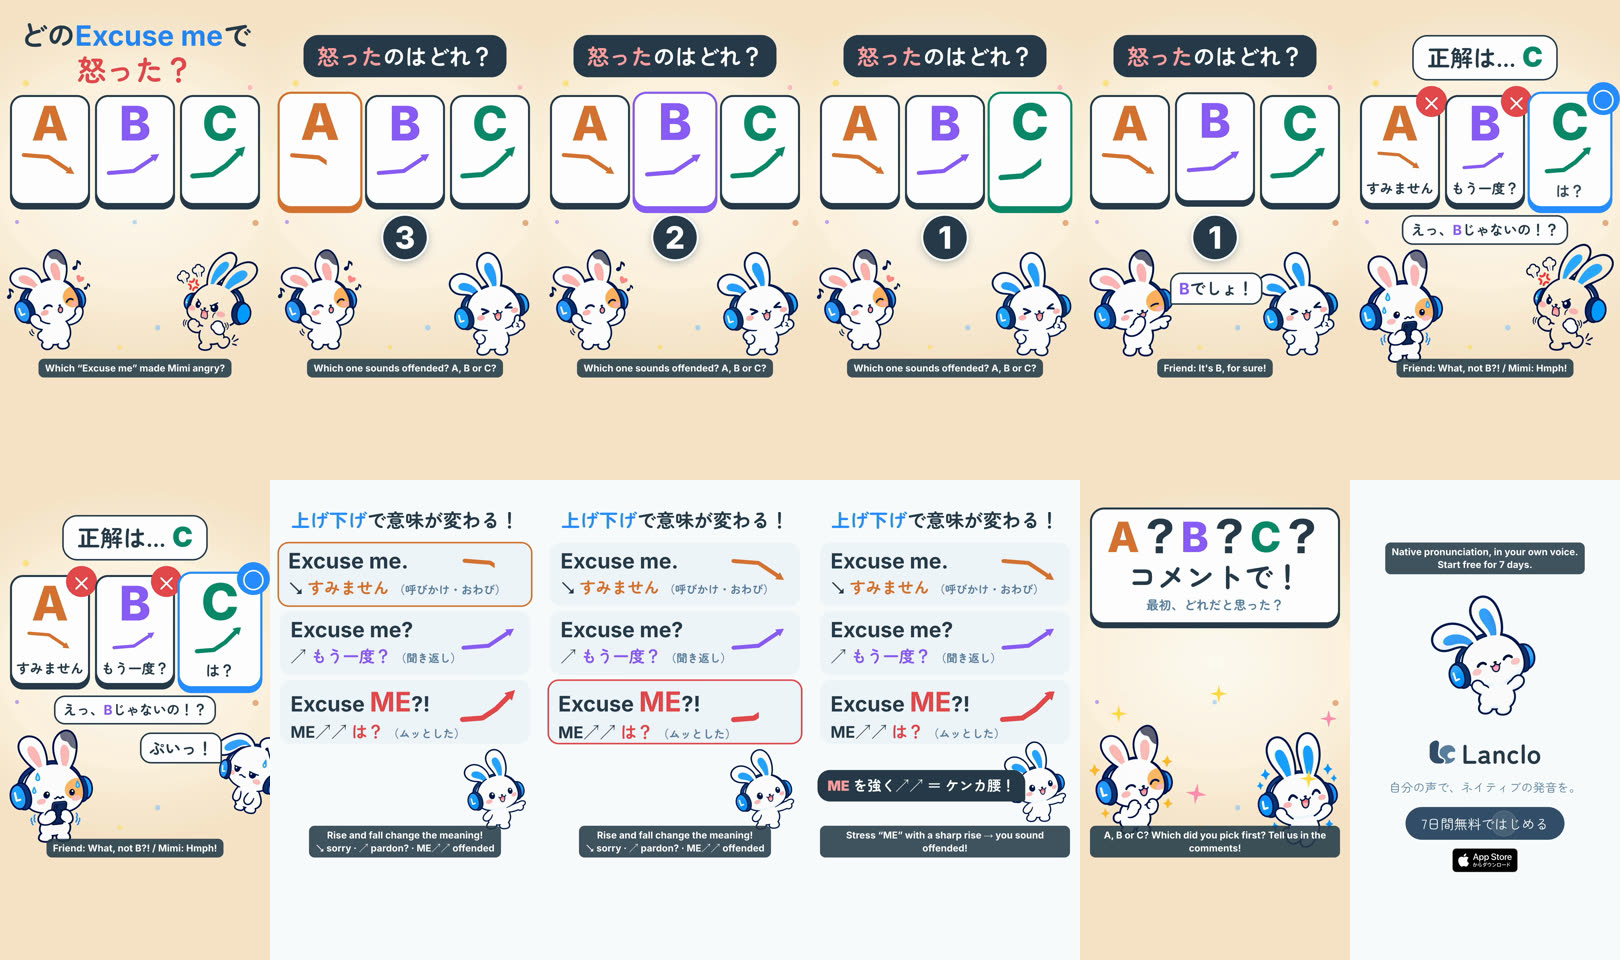
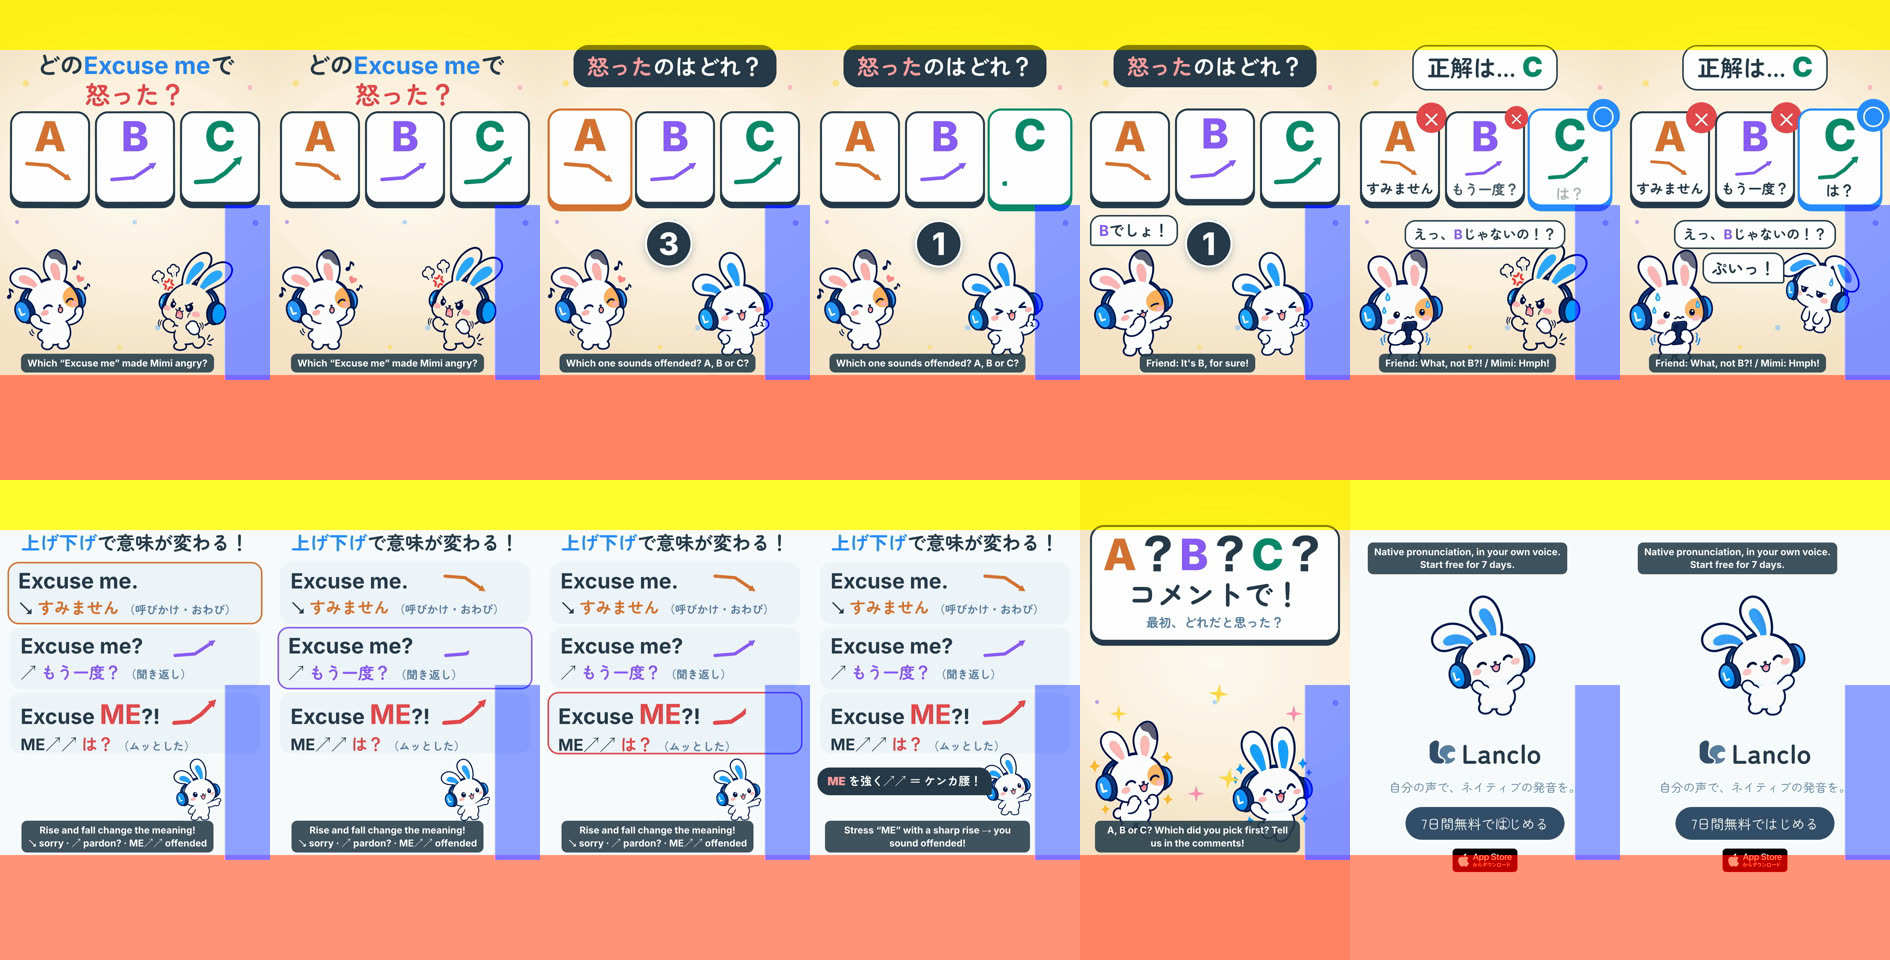
062 draft v2: keep text, bubbles and faces out of the platform safe zones

diff --git a/films/mimi-hear-excuse/source/hf/index.html b/films/mimi-hear-excuse/source/hf/index.html
@@ -15,55 +15,55 @@
                 background: radial-gradient(ellipse 900px 700px at 50% 38%, #fffaf2 0%, #fdf1df 60%, #f7e4c8 100%); }
       #studio i { position: absolute; border-radius: 50%; opacity: 0.55; }
       /* hook */
-      #hook { position: absolute; left: 30px; right: 30px; top: 70px; text-align: center; font-size: 112px; font-weight: 700; line-height: 1.15; color: #273b4b; }
+      #hook { position: absolute; left: 30px; right: 30px; top: 200px; text-align: center; font-size: 96px; font-weight: 700; line-height: 1.15; color: #273b4b; }
       #hook .en { font-family: "Helvetica Neue", Arial, sans-serif; color: #2886f3; }
-            #hook .s { display: block; font-size: 116px; color: #e5484d; }
-      #q { position: absolute; left: 0; right: 0; top: 140px; display: flex; justify-content: center; }
+            #hook .s { display: block; font-size: 100px; color: #e5484d; }
+      #q { position: absolute; left: 0; right: 0; top: 180px; display: flex; justify-content: center; }
       #q span { background: #273b4b; color: #ffffff; font-size: 88px; font-weight: 700; padding: 18px 54px 24px; border-radius: 60px; }
       #q b { color: #ff9ea1; }
       /* option cards: three, 320 px wide, each with its intonation contour arrow */
-      .opt { position: absolute; top: 380px; width: 320px; height: 440px; border-radius: 52px; background: #ffffff; border: 8px solid #273b4b;
+      .opt { position: absolute; top: 445px; width: 320px; height: 370px; border-radius: 52px; background: #ffffff; border: 8px solid #273b4b;
              box-shadow: 0 18px 0 #273b4b; display: flex; flex-direction: column; align-items: center; padding-top: 10px; box-sizing: border-box; }
       #opt-a { left: 40px; }
       #opt-b { left: 380px; }
       #opt-c { left: 720px; }
-      .opt .L { font-family: "Helvetica Neue", Arial, sans-serif; font-size: 190px; font-weight: 800; line-height: 1; }
+      .opt .L { font-family: "Helvetica Neue", Arial, sans-serif; font-size: 165px; font-weight: 800; line-height: 1; }
       #opt-a .L { color: #d57333; }
       #opt-b .L { color: #8a5cf6; }
       #opt-c .L { color: #0e8a6b; }
-      .opt svg.ar { width: 250px; height: 125px; margin-top: 4px; overflow: visible; }
-      .opt .ans { position: absolute; left: 6px; right: 6px; bottom: 22px; text-align: center; font-size: 54px; font-weight: 700; color: #273b4b; opacity: 0; white-space: nowrap; }
+      .opt svg.ar { width: 220px; height: 110px; margin-top: 2px; overflow: visible; }
+      .opt .ans { position: absolute; left: 6px; right: 6px; bottom: 16px; text-align: center; font-size: 54px; font-weight: 700; color: #273b4b; opacity: 0; white-space: nowrap; }
       .opt .mark { position: absolute; right: -36px; top: -44px; width: 124px; height: 124px; border-radius: 50%; display: flex; align-items: center; justify-content: center;
                    font-size: 88px; font-weight: 700; color: #ffffff; opacity: 0; }
       #opt-a .mark, #opt-b .mark { background: #e5484d; }
       #opt-c .mark { background: #2a8dff; }
       /* countdown: under the cards, between the bunnies */
-      #cd { position: absolute; left: 445px; top: 855px; width: 190px; height: 190px; border-radius: 50%; background: #273b4b; border: 8px solid #ffffff;
+      #cd { position: absolute; left: 420px; top: 880px; width: 190px; height: 190px; border-radius: 50%; background: #273b4b; border: 8px solid #ffffff;
             box-shadow: 0 10px 30px rgba(39, 59, 75, 0.3); }
       #cd b { position: absolute; inset: 0; display: flex; align-items: center; justify-content: center; font-family: "Helvetica Neue", Arial, sans-serif;
               font-size: 124px; font-weight: 800; color: #ffffff; opacity: 0; }
       /* the two bunnies */
       .cast { position: absolute; height: auto; transform-origin: 50% 100%; }
       .friend { left: 30px; top: 990px; width: 350px; }
-      .mimi { left: 700px; top: 1000px; width: 340px; }
+      .mimi { left: 600px; top: 1000px; width: 340px; }
       .say { position: absolute; background: #ffffff; border: 6px solid #273b4b; border-radius: 44px; padding: 14px 30px 18px;
              font-size: 54px; font-weight: 700; line-height: 1.25; color: #273b4b; white-space: nowrap; }
       .say em { font-style: normal; color: #8a5cf6; font-family: "Helvetica Neue", Arial, sans-serif; }
-      #f-say { left: 360px; top: 1090px; border-bottom-left-radius: 10px; font-size: 64px; }
-      #f-oops { left: 0; right: 0; margin: 0 auto; width: max-content; top: 862px; }
-      #m-say { left: 560px; top: 1010px; border-bottom-right-radius: 10px; font-size: 64px; }
-      #answer { position: absolute; left: 0; right: 0; top: 140px; display: flex; justify-content: center; }
+      #f-say { left: 40px; top: 860px; border-bottom-left-radius: 10px; font-size: 60px; }
+      #f-oops { left: 0; right: 0; margin: 0 auto; width: max-content; top: 880px; }
+      #m-say { left: 330px; top: 1010px; border-bottom-right-radius: 10px; font-size: 64px; }
+      #answer { position: absolute; left: 0; right: 0; top: 180px; display: flex; justify-content: center; }
       #answer span { background: #ffffff; border: 6px solid #273b4b; color: #273b4b; font-size: 92px; font-weight: 700; padding: 14px 54px 22px; border-radius: 60px; }
       #answer b { display: inline-block; font-family: "Helvetica Neue", Arial, sans-serif; color: #0e8a6b; font-size: 110px; }
       /* the rule card: Mimi's summary, one row per intonation */
       #rule { position: absolute; inset: 0; background: #fbfcfd; }
-      #r-title { position: absolute; left: 50px; right: 50px; top: 110px; text-align: center; font-size: 76px; white-space: nowrap; font-weight: 700; color: #273b4b; line-height: 1.25; }
+      #r-title { position: absolute; left: 50px; right: 50px; top: 200px; text-align: center; font-size: 76px; white-space: nowrap; font-weight: 700; color: #273b4b; line-height: 1.25; }
       #r-title em { font-style: normal; color: #2a8dff; }
-      .row { position: absolute; left: 40px; right: 40px; height: 255px; border-radius: 44px; background: #f1f5f9; border: 6px solid transparent;
+      .row { position: absolute; left: 40px; right: 40px; height: 245px; border-radius: 44px; background: #f1f5f9; border: 6px solid transparent;
              padding: 22px 36px; box-sizing: border-box; }
-      #row-a { top: 250px; }
-      #row-b { top: 525px; }
-      #row-c { top: 800px; }
+      #row-a { top: 330px; }
+      #row-b { top: 590px; }
+      #row-c { top: 850px; }
       .row .en { font-family: "Helvetica Neue", Arial, sans-serif; font-size: 84px; font-weight: 700; color: #273b4b; line-height: 1.1; white-space: nowrap; }
       #row-c .en .st { display: inline-block; color: #e5484d; font-size: 108px; }
       .row .rl { font-size: 64px; font-weight: 700; color: #273b4b; line-height: 1.2; margin-top: 18px; white-space: nowrap; }
@@ -71,13 +71,13 @@
       #row-b .rl em { font-style: normal; color: #8a5cf6; }
       #row-c .rl em { font-style: normal; color: #e5484d; }
       .row .rl small { font-size: 44px; color: #5b7f9f; }
-      .row svg.ar { position: absolute; right: 30px; top: 40px; width: 250px; height: 125px; overflow: visible; }
-      #r-mimi { position: absolute; left: 770px; top: 1070px; width: 260px; height: auto; transform-origin: 50% 100%; }
-      #r-hit { position: absolute; left: 30px; top: 1160px; background: #273b4b; color: #ffffff; font-size: 56px; font-weight: 700; padding: 18px 40px 22px;
+      .row svg.ar { position: absolute; right: 150px; top: 26px; width: 200px; height: 100px; overflow: visible; }
+      #r-mimi { position: absolute; left: 690px; top: 1110px; width: 200px; height: auto; transform-origin: 50% 100%; }
+      #r-hit { position: absolute; left: 30px; top: 1150px; background: #273b4b; color: #ffffff; font-size: 46px; font-weight: 700; padding: 18px 40px 22px;
                border-radius: 50px; border-bottom-right-radius: 10px; white-space: nowrap; }
       #r-hit b { color: #ff9ea1; font-family: "Helvetica Neue", Arial, sans-serif; }
       /* ask for a comment */
-      #ask { position: absolute; left: 40px; right: 40px; top: 110px; background: #ffffff; border-radius: 56px; border: 8px solid #273b4b; box-shadow: 0 16px 0 #273b4b;
+      #ask { position: absolute; left: 40px; right: 40px; top: 180px; background: #ffffff; border-radius: 56px; border: 8px solid #273b4b; box-shadow: 0 16px 0 #273b4b;
              text-align: center; padding: 26px 20px 36px; }
       #ask .ab { display: block; font-family: "Helvetica Neue", Arial, sans-serif; font-size: 160px; font-weight: 800; line-height: 1.05; }
       #ask .ab .a { color: #d57333; }
@@ -86,10 +86,10 @@
       #ask .big { display: block; font-size: 116px; font-weight: 700; color: #273b4b; line-height: 1.2; }
       #ask .small { display: block; font-size: 50px; font-weight: 700; color: #5b7f9f; margin-top: 10px; }
       .sparkles { position: absolute; inset: 0; }
-      /* English subtitles: just above the bottom safe zone (under the feet). <body class="no-subs"> renders the Japanese-only cut. */
+      /* English subtitles: above the platform bottom zone (box bottom at y 1490) and left of the right rail (x 60-880). <body class="no-subs"> renders the Japanese-only cut. */
       body.no-subs .sub { display: none; }
-      .sub { position: absolute; left: 30px; right: 30px; bottom: 410px; display: flex; justify-content: center; }
-      .sub span { display: block; max-width: 1000px; background: rgba(39, 59, 75, 0.88); color: #ffffff; font-size: 38px; line-height: 1.35;
+      .sub { position: absolute; left: 60px; right: 200px; bottom: 430px; display: flex; justify-content: center; }
+      .sub span { display: block; max-width: 820px; box-sizing: border-box; background: rgba(39, 59, 75, 0.88); color: #ffffff; font-size: 38px; line-height: 1.35;
                   font-weight: 700; text-align: center; padding: 12px 26px; border-radius: 22px; font-family: "Helvetica Neue", Arial, sans-serif; }
     </style>
   </head>
@@ -169,7 +169,7 @@
     <script>
       const K = window.MimiKit;
       K.endCard(document.getElementById("end"), "自分の声で、ネイティブの発音を。", "7日間無料ではじめる");
-      K.sparkles(document.getElementById("sp"), [[120, 900, "#ffd84a"], [960, 920, "#ff8fb1"], [520, 820, "#ffd84a"], [880, 1160, "#ffd84a"], [430, 1220, "#ff8fb1"]]);
+      K.sparkles(document.getElementById("sp"), [[120, 900, "#ffd84a"], [820, 900, "#ff8fb1"], [520, 820, "#ffd84a"], [560, 1160, "#ffd84a"], [430, 1220, "#ff8fb1"]]);
       // studio confetti dots (fixed positions: deterministic)
       const studio = document.getElementById("studio");
       [[90, 320, 26, "#ffd84a"], [990, 340, 20, "#ff8fb1"], [530, 880, 18, "#7cc0ff"], [60, 880, 16, "#8a5cf6"], [1010, 880, 24, "#d57333"], [470, 1380, 18, "#ffd84a"], [620, 1300, 22, "#7cc0ff"]]
@@ -243,7 +243,7 @@
       tl.fromTo("#f-oops", { scale: 0.5, opacity: 0 }, { scale: 1, opacity: 1, duration: 0.18, ease: "back.out(2.5)" }, 7.45);
       // hmph: a hop, a tilt away and a slide toward the edge
       tl.fromTo("#mimi3", { y: 0, rotation: 0, x: 0 }, { y: -50, rotation: 10, duration: 0.15, ease: "power2.out" }, TURN);
-      tl.to("#mimi3", { y: 0, x: 90, rotation: 14, duration: 0.25, ease: "power2.in" }, TURN + 0.15);
+      tl.to("#mimi3", { y: 0, x: -10, rotation: 10, duration: 0.25, ease: "power2.in" }, TURN + 0.15);
       tl.fromTo("#m-say", { scale: 0.5, opacity: 0, transformOrigin: "100% 100%" }, { scale: 1, opacity: 1, duration: 0.18, ease: "back.out(2.5)" }, TURN + 0.05);
 
       // rule: Mimi's summary card; the three takes again, each row lights while it plays and its arrow draws

diff --git a/films/mimi-hear-excuse/PROCESS.md b/films/mimi-hear-excuse/PROCESS.md
@@ -26,6 +26,13 @@
 5. Mix: takes trimmed to speech with heads and tails kept (silencedetect -45 dB: A 0.12–1.12 s, B 0.19–0.94 s, C 0.15–1.57 s of the take); kit bed and levels unchanged; soft taps for the countdown, pofu for the reveal, a whoosh for Mimi's turn-away; the rule punch line comes after C's “me” so no pop lands on it. Episode 1's -14 LUFS post-gain + limiter step kept: -14.2 LUFS / -1.9 dBTP in the WAV, -14.3 LUFS / -1.9 dBTP in both cuts. Voice sections measure 9–14 dB (mean) above the bed-only sections.
 6. Layout check on the contact sheet: captions at the top, subtitles at `bottom: 410px` over the feet only, never a face; the rule subtitle cut to two lines. `hyperframes check`: 0 errors (lint warnings for missing ids on subtitle clips, as in episode 1).
 
+## Draft v2 (2026-10-23, platform safe zones)
+
+- Owner: 「セーフティエリアって大丈夫？被ってもいいけどすべてが隠れないようにね。」 Commander: the bristling / ぷいっ Mimi and the small Mimi on the rule card sat in the right action rail (x > 900, y 820–1520); EN subtitles must sit fully above y 1500 within x 60–880; the hook's first line must start at y ≥ 200.
+- Layout: hook, question, answer, rule title and the comment card start at y ≥ 200 (hook 96 / 100 px); cards moved to y 445 and 370 px high; Mimi moved to x 600 (face left of 900), her turn-away is a hop and tilt without sliding right; the 「ぷいっ！」 and 「Bでしょ！」 bubbles moved out of the rail; the rule-card arrows end at x 890; the rule Mimi (200 px, x 690) sits next to a narrower punch line; subtitles at `bottom: 430px` (box bottom y 1490), x 60–880.
+- Checked on a zone-overlay sheet (EN cut, frames every ~1.5 s, the three zones drawn): no text, bubble or small Mimi in the rail; faces left of x 900; nothing meaningful below y 1500 except the kit end card's App Store badge (kit level, unchanged). Loudness unchanged: -14.3 LUFS / -1.9 dBTP in both cuts.
+- v1 drafts moved to Drive `old/` with a `_v1` suffix.
+
 ## Open questions
 
 - Owner's ear on A: the fall is real but gentle (~2.5 semitones from “cuse” to “me”); it no longer rises, but it is less dramatic than B and C. Regeneration limit reached.
